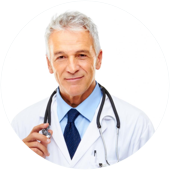
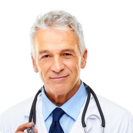
add specialist photos

diff --git a/admin-doctor-view.html b/admin-doctor-view.html
@@ -100,7 +100,7 @@
 								<div class="large-12 columns end">
 									<div class="page-lead">
 										<div class="img-wrapper circle large">
-											<img src="img/specialist.png" alt="">
+											<img src="img/specialist-1.png" alt="">
 										</div>
 										<span class="h5 success-color">Johnny Kennedy</span>
 										<div class="button-align small pull-right">
